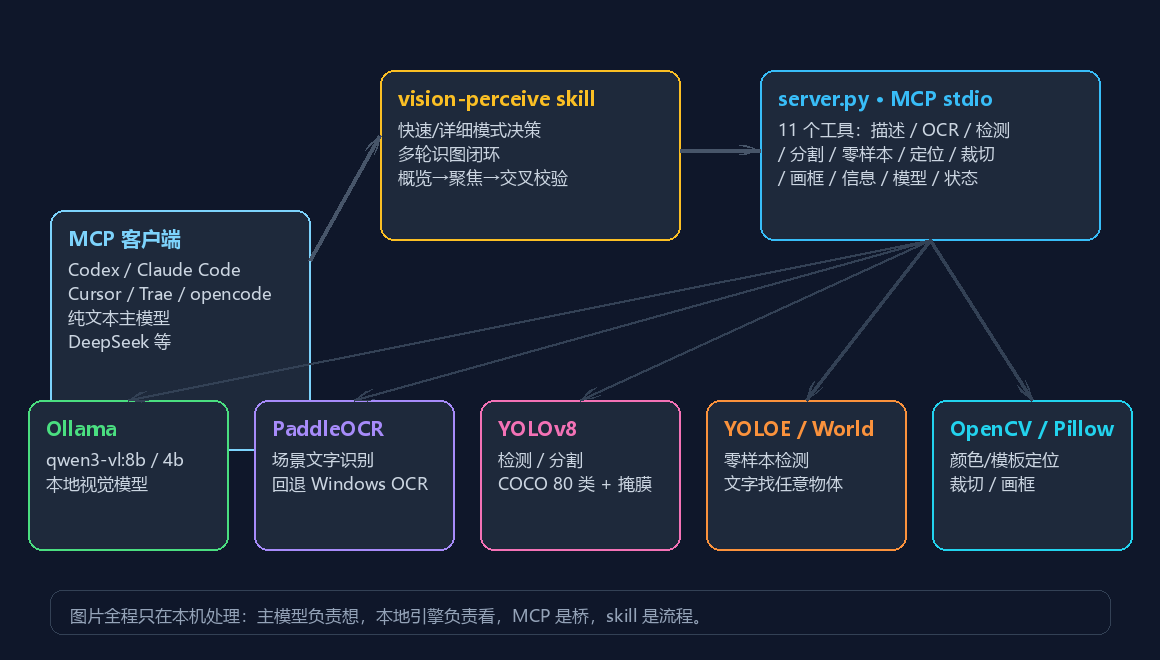
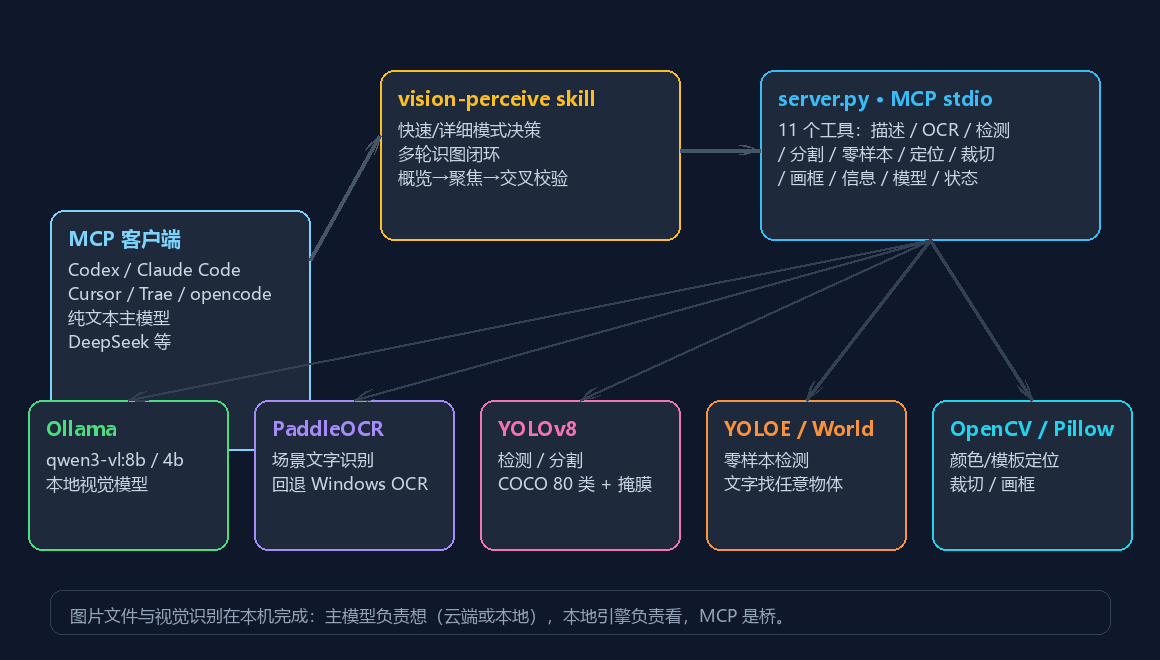
docs: 隐私表述修正——明确图片文件/视觉识别本地、识别文字随对话上云，不再宣称绝对隐私

Changed region(s): [[0.0931, 0.9091, 0.6828, 0.9697]]

diff --git a/examples/make_showcase_images.py b/examples/make_showcase_images.py
@@ -249,7 +249,7 @@ def make_demo_annotated():
             y += 24
         if y > H + off_y - 46:
             break
-    d.text((px, H + off_y - 24), "图片全程在本机处理 · 未上传任何云端", font=font(FONT_REG, 14), fill="#64748b")
+    d.text((px, H + off_y - 24), "图片文件在本机处理 · 原图不直接上传", font=font(FONT_REG, 14), fill="#64748b")
 
     # 底部：综合分析块（真实模型输出）
     ay0 = head_h + H + 24
@@ -286,7 +286,7 @@ def make_social_preview():
     d.text((70, 120), "给 DeepSeek 装上", font=font(FONT_BOLD, 84), fill="#ffffff")
     d.text((70, 232), "本地眼睛", font=font(FONT_BOLD, 84), fill="#ffffff")
     d.text((70, 344), "OCR · 检测 · 分割 · 零样本 · 定位 · 裁切放大", font=font(FONT_REG, 38), fill="#cbd5e1")
-    d.text((70, 400), "图片全程不出本机，100% 本地免费", font=font(FONT_REG, 38), fill="#7dd3fc")
+    d.text((70, 400), "图片文件不出本机 · 视觉识别全本地", font=font(FONT_REG, 38), fill="#7dd3fc")
     chips = ["11 个工具", "21 项离线测试", "相同图片缓存秒回", "多轮闭环防幻觉"]
     cx, cy = 70, 492
     for chip in chips:
@@ -340,7 +340,7 @@ def make_architecture():
     d.rounded_rectangle([50, 590, AW - 50, 634], radius=12, fill="#0f172a", outline="#334155", width=1)
     d.text(
         (70, 604),
-        "图片全程只在本机处理：主模型负责想，本地引擎负责看，MCP 是桥，skill 是流程。",
+        "图片文件与视觉识别在本机完成：主模型负责想（云端或本地），本地引擎负责看，MCP 是桥。",
         font=f_s,
         fill="#94a3b8",
     )

diff --git a/README.md b/README.md
@@ -1,7 +1,8 @@
 # Local Vision MCP（本地识图）
 
 给纯文本主模型（DeepSeek 等）补上本地"看图"能力的 MCP server + 多轮识图闭环 skill。
-**图片只在本机处理**：读取本地图片 → 本地 Ollama 视觉模型 / YOLO / PaddleOCR / OpenCV → 返回文字与坐标，全程不出机器。
+**图片文件与视觉识别全程在本机完成**：读取本地图片 → 本地 Ollama 视觉模型 / YOLO / PaddleOCR / OpenCV → 返回文字与坐标，原始图片不直接上传。
+识别出的文字会进入主模型对话——若主模型为云端 API（如 DeepSeek），该文字内容会上云；需要完全隔离可搭配本地主模型。
 
 ![License](https://img.shields.io/badge/license-MIT-green.svg)
 ![Python](https://img.shields.io/badge/python-3.9+-blue.svg)
@@ -10,7 +11,7 @@
 
 ## 特性
 
-- 🖼 **本地看图**：图片不出机器，隐私安全；DeepSeek 等纯文本模型也能"看图"
+- 🖼 **本地看图**：图片文件与视觉识别全程在本机完成，不直接上传原图；识别出的文字随对话交给主模型（云端主模型可见）
 - 🔧 **专业工具分工**：视觉模型描述、PaddleOCR 场景文字识别（含坐标框）、YOLO 检测/分割、零样本检测、颜色/模板定位、裁切放大，各管一段
 - 🔄 **多轮识图闭环**：概览 → 聚焦 → 文字 → 定位 → 放大 → 交叉校验 → 综合报告，过滤幻觉
 - ⚡ **快慢双模式**：顺手附图走 quick（默认 4B、秒级返回），认真分析走 detailed（8B）
@@ -20,7 +21,7 @@
 
 ## 效果演示
 
-同一张看板截图的**真实工具输出**：`cv_locate` 颜色定位（绿/红卡片色条）+ PaddleOCR 文字识别（含坐标）+ 本地 qwen3-vl 综合分析，图片全程在本机处理：
+同一张看板截图的**真实工具输出**：`cv_locate` 颜色定位（绿/红卡片色条）+ PaddleOCR 文字识别（含坐标）+ 本地 qwen3-vl 综合分析（图片文件在本机处理）：
 
 ![真实工具输出演示](examples/demo_annotated.png)
 
@@ -33,7 +34,7 @@ DeepSeek 等纯文本模型没有视觉能力，但通过 MCP 工具可以获得
 
 ![架构总览](examples/architecture.png)
 
-一句话：**主模型负责"想"，本地引擎负责"看"，MCP 是桥，skill 是流程**；图片全程只在本机处理。
+一句话：**主模型负责"想"，本地引擎负责"看"，MCP 是桥，skill 是流程**；图片文件与视觉识别在本机完成。
 
 数据流：纯文本主模型（Codex / Claude Code / opencode / DeepSeek 等）→ `server.py`（MCP stdio，11 个工具）→
 本地引擎（Ollama 视觉模型 / PaddleOCR / YOLO / OpenCV / Pillow）→ 返回文字与坐标 → 主模型交叉校验并输出最终报告。
@@ -217,7 +218,7 @@ python tests\test_server.py
 - 本项目代码：MIT License。
 - **模型权重不随仓库分发**：yolov8n.pt / yoloe-*.pt 等为 AGPL-3.0 许可（Ultralytics），首次调用自动下载，用户自担许可责任。
 - **绝不提交**：`config.toml`（含 DeepSeek API Key）、`*.bak-*`、`.cache/`、真人照片测试图（`.gitignore` 已屏蔽）。
-- 图片仅发往本机 Ollama（默认 `http://localhost:11434`），不上传任何云端。
+- 图片文件仅在本机处理（本地 Ollama / PaddleOCR / YOLO / OpenCV），不直接上传原图；对话内容（含识别文字）按你所使用的主模型策略发送。
 
 ## 配置项（环境变量）
 
@@ -248,6 +249,7 @@ python tests\test_server.py
 ## 已知限制
 
 - **qwen3-vl:8b 定位能力弱**：能验证框、描述场景、读文字，但直接输出精确坐标不可靠——因此定位交给 YOLO/OpenCV。
+- **识别文字随对话上云**：图片文件不出本机，但 OCR / 描述等识别文字会进入主模型对话；若主模型为云端 API（如 DeepSeek），这些文字会发送到其服务器。需要完全隔离时可搭配本地主模型（如 Ollama 中的 qwen3 / deepseek-r1）。
 - **qwen3-vl 设置 num_predict（max_tokens）会返回空输出**（实测 Ollama 行为），所以限长靠精简 prompt 而不是参数。
 - **多图对比（file_paths）在 qwen3-vl:8b 下实测无效**：Ollama 只把第一张图传给模型，第二张会被忽略；需要对比时改为分别分析单张图，由主模型综合。
 - **OCR 有误读率**：系统 OCR 偶发识别错误，重要文字建议与视觉模型交叉核对；艺术字/手写效果差。

diff --git a/docs/部署与常见问题.md b/docs/部署与常见问题.md
@@ -4,7 +4,7 @@
 
 ## 0. 一句话说明
 
-这是一个给纯文本大模型（DeepSeek 等）补"看图"能力的本地 MCP 服务：图片只在本机处理，不上传任何云端。
+这是一个给纯文本大模型（DeepSeek 等）补"看图"能力的本地 MCP 服务：图片文件只在本机处理，不直接上传；识别出的文字会进入主模型对话（云端主模型可见）。
 
 ## 1. 环境要求
 
@@ -166,7 +166,7 @@ powershell -ExecutionPolicy Bypass -File .\install-skill.ps1
 
 ## 5. 隐私与许可
 
-- **隐私**：图片只发往本机 Ollama（默认 `http://localhost:11434`），不上传任何云端。
+- **隐私**：图片文件只在本机处理（本地 Ollama / PaddleOCR / YOLO / OpenCV），不直接上传原图；但识别出的文字会进入主模型对话，若主模型为云端 API（如 DeepSeek），文字内容会发送到其服务器。需要完全隔离时可搭配本地主模型。
 - **许可**：项目代码 MIT；模型权重（yolov8n.pt 等）为 Ultralytics AGPL-3.0 许可，不入库、按需下载，使用前请自行确认合规。
 - **密钥**：`~/.codex/config.toml` 含 API Key，绝不提交；项目 .gitignore 已屏蔽。
 

diff --git a/CHANGELOG.md b/CHANGELOG.md
@@ -17,6 +17,7 @@
 - README 兼容性章节补充"各客户端粘贴图片落盘位置表"与"宿主 MCP 超时建议"
 - 架构说明更新工具数（11 个）、工具表与关键设计决策
 - 开发记录补同类项目调研心得与本次改动；部署手册补充 `PADDLE_PDX_CACHE_HOME` 缓存重定位、多账号场景与大图缩放说明
+- 隐私表述修正：明确"图片文件与视觉识别在本机完成、原图不直接上传；识别文字随对话交给主模型（云端主模型可见）"，不再笼统宣称"全程不出机器/绝对隐私"
 
 ### 测试
 - 离线测试新增：缓存命中、瞬时错误重试、不可信前缀、vision_status、相对路径拒绝、伪格式拒绝、可选缩放

diff --git a/docs/架构说明.md b/docs/架构说明.md
@@ -6,7 +6,7 @@
 
 给纯文本大模型（DeepSeek 等）补上"看图"能力的**本地 MCP 服务**：
 
-- **本地优先**：图片只在本机处理，不上传任何云端；
+- **本地优先**：图片文件与视觉识别只在本机完成，不直接上传原图；识别出的文字随对话交给主模型（云端主模型可见）；
 - **分工 + 闭环**：把"看图"拆成描述、OCR、检测、分割、定位、裁切等专业工具，再由 skill 编排成多轮闭环，解决单次调用漏细节、位置不准、幻觉的问题；
 - **部署友好**：核心 server 零第三方依赖；重型能力（PaddleOCR、YOLOE）做成可选，装不上自动降级。
 
